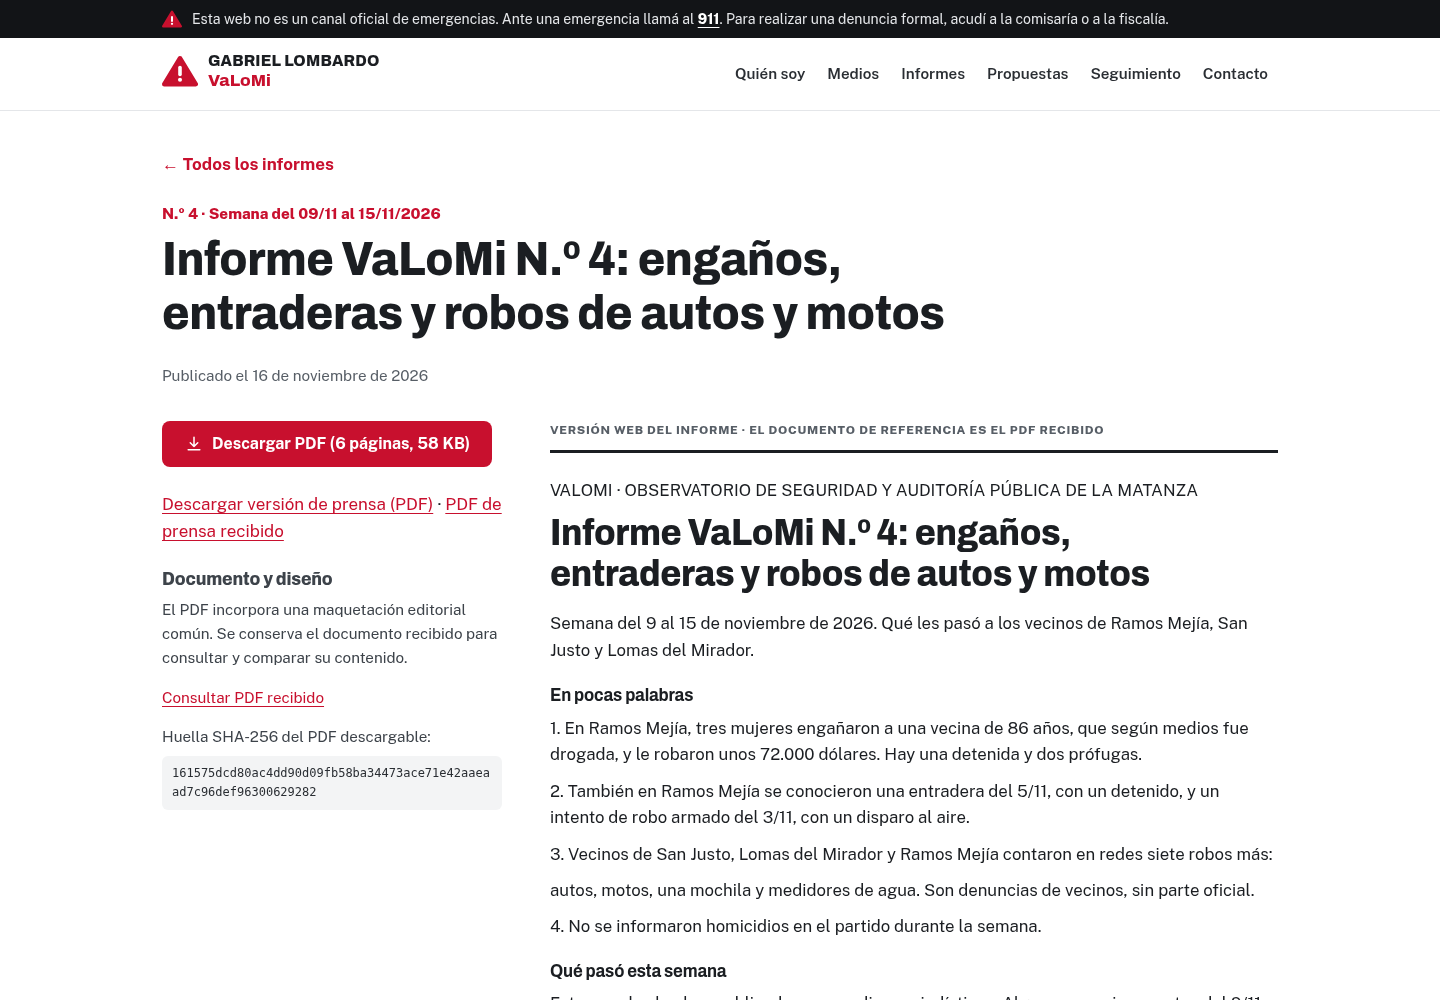
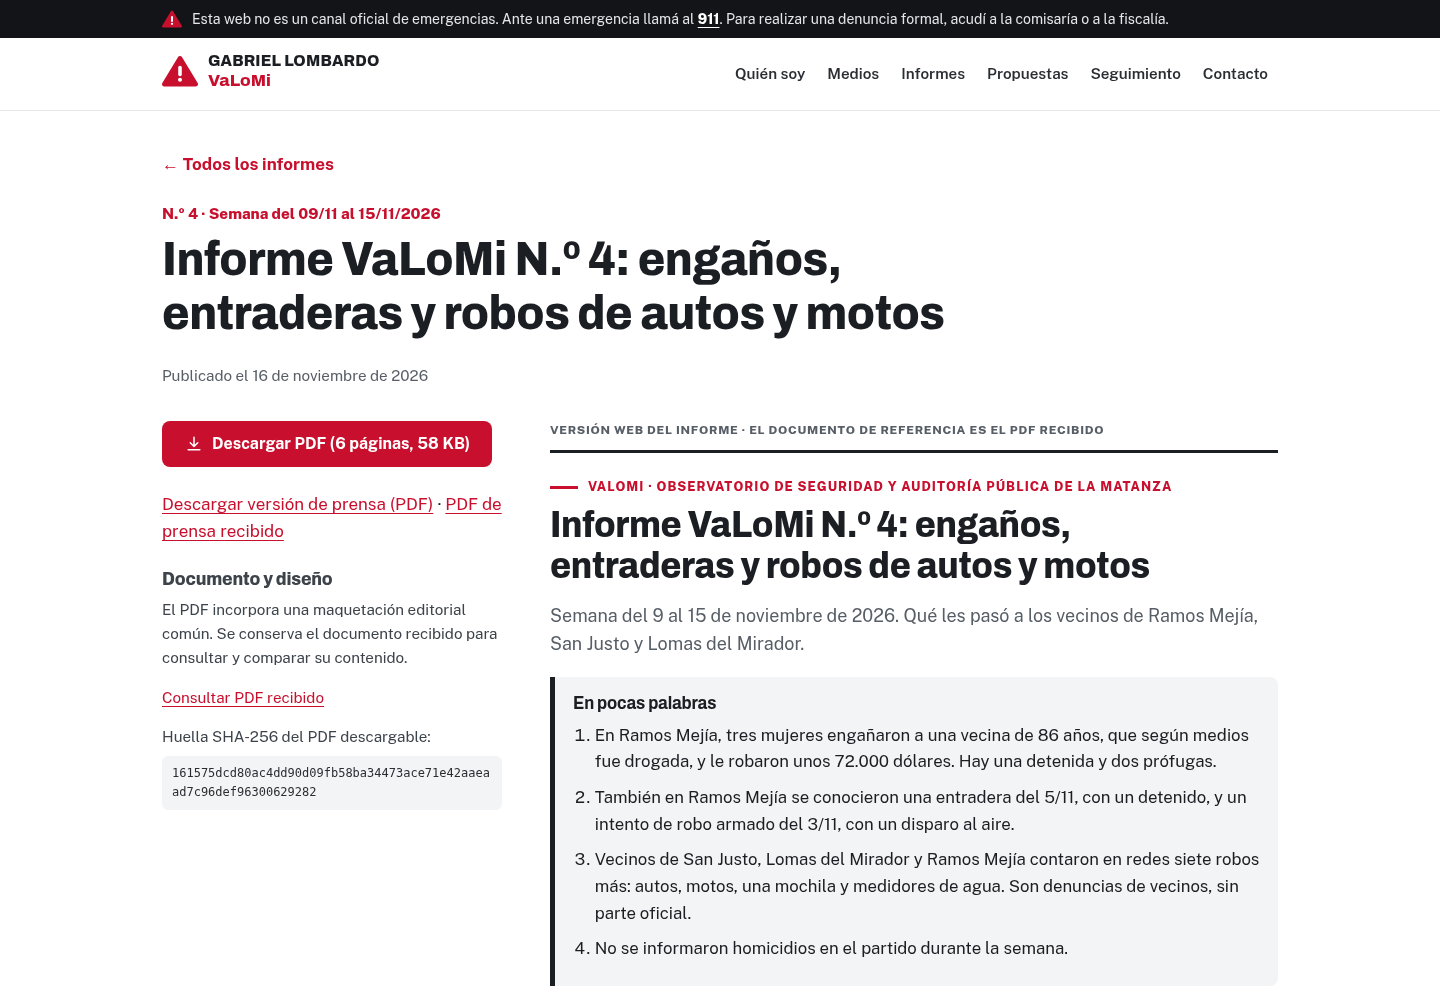
Adapta el informe 4 al estilo web existente sin cambiar los PDF

Changed region(s): [[0.375, 0.682, 0.875, 0.992], [0.375, 0.465, 0.875, 0.651], [0.8438, 0.992, 0.875, 1.0]]

diff --git a/content/informes-html/informe-valomi-n-4-semana-del-09-11-al-15-11-2026/versionWeb.html b/content/informes-html/informe-valomi-n-4-semana-del-09-11-al-15-11-2026/versionWeb.html
@@ -1,46 +1,234 @@
-<article class="vv"><p>VALOMI · OBSERVATORIO DE SEGURIDAD Y AUDITORÍA PÚBLICA DE LA MATANZA</p>
+<article class="vv"><p class="vv-kicker">VALOMI · OBSERVATORIO DE SEGURIDAD Y AUDITORÍA PÚBLICA DE LA MATANZA</p>
 <h1>Informe VaLoMi N.º 4: engaños, entraderas y robos de autos y motos</h1>
-<p>Semana del 9 al 15 de noviembre de 2026. Qué les pasó a los vecinos de Ramos Mejía, San Justo y Lomas del Mirador.</p>
+<p class="vv-lead">Semana del 9 al 15 de noviembre de 2026. Qué les pasó a los vecinos de Ramos Mejía, San Justo y Lomas del Mirador.</p>
+<div class="vv-box">
 <h3>En pocas palabras</h3>
-<p>1. En Ramos Mejía, tres mujeres engañaron a una vecina de 86 años, que según medios fue drogada, y le robaron unos 72.000 dólares. Hay una detenida y dos prófugas.</p>
-<p>2. También en Ramos Mejía se conocieron una entradera del 5/11, con un detenido, y un intento de robo armado del 3/11, con un disparo al aire.</p>
-<p>3. Vecinos de San Justo, Lomas del Mirador y Ramos Mejía contaron en redes siete robos más:</p>
-<p>autos, motos, una mochila y medidores de agua. Son denuncias de vecinos, sin parte oficial.</p>
-<p>4. No se informaron homicidios en el partido durante la semana.</p>
-<h3>Qué pasó esta semana</h3>
-<p>Estos son los hechos publicados por medios periodísticos. Algunos ocurrieron antes del 9/11 y se conocieron esta semana.</p>
-<p>1. Ramos Mejía: engañaron a una jubilada y le robaron unos 72.000 dólares</p>
+<ol class="vv-ideas">
+<li>En Ramos Mejía, tres mujeres engañaron a una vecina de 86 años, que según medios fue drogada, y le robaron unos 72.000 dólares. Hay una detenida y dos prófugas.</li>
+<li>También en Ramos Mejía se conocieron una entradera del 5/11, con un detenido, y un intento de robo armado del 3/11, con un disparo al aire.</li>
+<li>Vecinos de San Justo, Lomas del Mirador y Ramos Mejía contaron en redes siete robos más: autos, motos, una mochila y medidores de agua. Son denuncias de vecinos, sin parte oficial.</li>
+<li>No se informaron homicidios en el partido durante la semana.</li>
+</ol>
+</div>
+<h2>Qué pasó esta semana</h2>
+<p class="vv-note">Estos son los hechos publicados por medios periodísticos. Algunos ocurrieron antes del 9/11 y se conocieron esta semana.</p>
+<h3>1. Ramos Mejía: engañaron a una jubilada y le robaron unos 72.000 dólares</h3>
 <p>Tres mujeres abordaron a una vecina de 86 años sobre la avenida Rivadavia, entre Pueyrredón y Mariano Moreno, con el «cuento de la quiniela». Le dieron un papel con una sustancia que la mareó, la acompañaron a su departamento de la calle San Martín y le robaron el dinero y objetos de valor.</p>
 <p>Según Primer Plano, la mujer sufrió un ACV y su estado es reservado. La investigación está a cargo de la UFIJ N.º 11 de La Matanza. La Justicia cree que hay más víctimas y habilitó el correo ufij11.lm@mpba.gov.ar para recibir denuncias.</p>
 <p>Cuándo pasó: los medios no precisan la fecha. Publicado: Primer Plano, 12/11; El1, 13/11; Noticias con Enfoque, 14/11.</p>
-<p>2. Ramos Mejía: entradera en la calle Magaldi</p>
+<h3>2. Ramos Mejía: entradera en la calle Magaldi</h3>
 <p>Varios delincuentes entraron con una llave a una casa, redujeron a una mujer que estaba con su hijo y se llevaron dinero y pertenencias. No hubo heridos. Por el análisis del vehículo usado, la Policía identificó a un sospechoso y detuvo a un hombre de 43 años en un allanamiento. El dato sale de un informe policial citado por El Nacional de Matanza.</p>
 <p>Cuándo pasó: 5/11. Publicado: El Nacional de Matanza (X), 14/11.</p>
-<p>3. Ramos Mejía: intento de robo armado frente al Club Villa Colombo</p>
+<h3>3. Ramos Mejía: intento de robo armado frente al Club Villa Colombo</h3>
 <p>Un conductor esperaba en su auto, en la calle Argentina al 200, cuando otro vehículo le cerró el paso. Bajaron al menos dos hombres armados y uno disparó al aire; el conductor aceleró y escapó. Hay video, pero no trascendió si hubo denuncia ni detenidos.</p>
 <p>Cuándo pasó: 3/11, alrededor de las 20:30. Publicado: El Policial, 11/11.</p>
-<p>4. Homicidios</p>
+<h3>4. Homicidios</h3>
 <p>No se informaron homicidios en el partido de La Matanza entre el 9 y el 15/11 en los medios y redes que revisamos.</p>
-<h3>Dónde</h3>
-<table><thead><tr><th>Barrio</th><th>Hechos publicados por medios</th><th>Denuncias de vecinos (sin parte oficial)</th></tr></thead><tbody><tr><td>Ramos Mejía</td><td>Jubilada engañada y robada; entradera en Magaldi; intento de robo armado en Argentina al 200</td><td>Robo de medidores y ruedas (Almirante al 1900); robo de auto en el límite con Lomas del Mirador</td></tr><tr><td>San Justo</td><td>—</td><td>Robo de auto (Malabia y Entre Ríos); robo de moto (Villegas y Alcorta)</td></tr><tr><td>Lomas del Mirador</td><td>—</td><td>Robo de moto (Ruta 3 y Avellaneda); medidores (Eduardo Costa y Cabral); mochila (Pagola y Las Heras)</td></tr></tbody></table>
-<h3>Policía, Justicia y Municipio</h3>
+<h2>Dónde</h2>
+<table>
+<thead><tr>
+<th>Barrio</th>
+<th>Hechos publicados por medios</th>
+<th>Denuncias de vecinos (sin parte oficial)</th>
+</tr></thead>
+<tbody>
+<tr>
+<td>Ramos Mejía</td>
+<td>Jubilada engañada y robada; entradera en Magaldi; intento de robo armado en Argentina al 200</td>
+<td>Robo de medidores y ruedas (Almirante al 1900); robo de auto en el límite con Lomas del Mirador</td>
+</tr>
+<tr>
+<td>San Justo</td>
+<td>—</td>
+<td>Robo de auto (Malabia y Entre Ríos); robo de moto (Villegas y Alcorta)</td>
+</tr>
+<tr>
+<td>Lomas del Mirador</td>
+<td>—</td>
+<td>Robo de moto (Ruta 3 y Avellaneda); medidores (Eduardo Costa y Cabral); mochila (Pagola y Las Heras)</td>
+</tr>
+</tbody>
+</table>
+<h2>Policía, Justicia y Municipio</h2>
 <p>1. Detenciones. Por el robo a la jubilada, una sospechosa fue detenida en la Ciudad de Buenos Aires y dos siguen prófugas (Primer Plano, 12/11; El1, 13/11). Por la entradera de Magaldi, un hombre de 43 años fue detenido en un allanamiento (El Nacional de Matanza, 14/11). Una detención no es una condena.</p>
 <p>2. MTZ Denuncias. El 10/11 el Municipio informó que su canal anónimo de WhatsApp (11 3630 4527, las 24 horas) ahora también recibe denuncias por arrojo de basura en lugares no permitidos (La Matanza Informa, 10/11). No publicó cuántas denuncias recibió ni qué resultados tuvo. No reemplaza al 911.</p>
-<h3>Lo que dicen los números oficiales</h3>
+<h2>Lo que dicen los números oficiales</h2>
 <p>El 10/11, Diario NCO publicó, a partir de «material» y «fuentes vinculadas» a los operativos, que en La Matanza se secuestran unas 1.500 motos por semana y que bajaron los robos (−26,4 %) y los hurtos (−14,3 %). La nota no aclara a qué período corresponde cada cifra.</p>
 <p>Las dos bajas coinciden con el informe oficial del Sistema Nacional de Información Criminal (SNIC Buenos Aires 2025, Ministerio de Seguridad de la Nación):</p>
-<table><thead><tr><th>Delito (tasa cada 100.000 habitantes)</th><th>2024</th><th>2025</th><th>Variación</th><th>Dónde</th></tr></thead><tbody><tr><td>Robos</td><td>1.293,2</td><td>951,5</td><td>−26,4 %</td><td>pág. 52</td></tr><tr><td>Hurtos</td><td>492,2</td><td>421,9</td><td>−14,3 %</td><td>pág. 59</td></tr></tbody></table>
+<table>
+<thead><tr>
+<th>Delito (tasa cada 100.000 habitantes)</th>
+<th>2024</th>
+<th>2025</th>
+<th>Variación</th>
+<th>Dónde</th>
+</tr></thead>
+<tbody>
+<tr>
+<td>Robos</td>
+<td>1.293,2</td>
+<td>951,5</td>
+<td>−26,4 %</td>
+<td>pág. 52</td>
+</tr>
+<tr>
+<td>Hurtos</td>
+<td>492,2</td>
+<td>421,9</td>
+<td>−14,3 %</td>
+<td>pág. 59</td>
+</tr>
+</tbody>
+</table>
 <p>Comparan 2025 con 2024 para todo el partido: no son datos de 2026 ni por barrio. La cifra de 1.500 motos por semana no figura en los documentos oficiales que consultamos.</p>
-<h3>Lo que no figura en las estadísticas</h3>
+<div class="vv-divider">
 <p>Denuncias de vecinos, sin parte oficial. Son publicaciones de vecinos en redes sociales. Ni la Policía ni la Justicia las confirmaron, así que no son hechos comprobados. Las publicamos aparte y con su fuente.</p>
-<table><thead><tr><th>Zona y relato</th><th>Cuándo pasó</th><th>Publicado</th></tr></thead><tbody><tr><td>Ramos Mejía, calle «Almirante» al 1900 (según el vecino): reclama al Ministerio de Seguridad bonaerense por robos reiterados de medidores de agua y de ruedas de autos. No da fechas ni dice si hubo denuncias policiales.</td><td>No informado</td><td>10/11 (X)</td></tr><tr><td>Lomas del Mirador, Eduardo Costa y Cabral: un vecino avisa que se llevaron «más de 2» medidores de agua.</td><td>No informado</td><td>11/11</td></tr></tbody></table>
-<table><thead><tr><th>Zona y relato</th><th>Cuándo pasó</th><th>Publicado</th></tr></thead><tbody><tr><td>Lomas del Mirador, Ruta 3 y Avellaneda: un grupo vecinal publica el robo de una moto. No se informan heridos ni detenidos.</td><td>No informado</td><td>12/11</td></tr><tr><td>Ramos Mejía, límite con Lomas del Mirador (Almirante Brown entre Carlos Pellegrini y Allende): una vecina cuenta que le robaron el auto, con documentos adentro. Según ella, fueron cuatro jóvenes en dos motos.</td><td>12/11, alrededor de las 20</td><td>12/11</td></tr><tr><td>San Justo, Malabia y Entre Ríos: aviso del robo de un auto estacionado. Sin detenidos ni notas de medios.</td><td>No informado</td><td>13/11</td></tr><tr><td>Lomas del Mirador, Pagola y Las Heras: una vecina cuenta que a un conocido le robaron la mochila con su documentación.</td><td>14/11</td><td>14/11</td></tr><tr><td>San Justo, Villegas y Alcorta (cerca de la plaza San Nicolás): un vecino dice que le robaron la moto y pide datos.</td><td>Probablemente 14/11, alrededor de las 20</td><td>15/11</td></tr></tbody></table>
+</div>
+<h2 class="vv-nooficial">Lo que no figura en las estadísticas</h2>
+<div class="vv-nv">
+<table>
+<thead><tr>
+<th>Zona y relato</th>
+<th>Cuándo pasó</th>
+<th>Publicado</th>
+</tr></thead>
+<tbody>
+<tr>
+<td>Ramos Mejía, calle «Almirante» al 1900 (según el vecino): reclama al Ministerio de Seguridad bonaerense por robos reiterados de medidores de agua y de ruedas de autos. No da fechas ni dice si hubo denuncias policiales.</td>
+<td>No informado</td>
+<td>10/11 (X)</td>
+</tr>
+<tr>
+<td>Lomas del Mirador, Eduardo Costa y Cabral: un vecino avisa que se llevaron «más de 2» medidores de agua.</td>
+<td>No informado</td>
+<td>11/11</td>
+</tr>
+<tr>
+<td>Lomas del Mirador, Ruta 3 y Avellaneda: un grupo vecinal publica el robo de una moto. No se informan heridos ni detenidos.</td>
+<td>No informado</td>
+<td>12/11</td>
+</tr>
+<tr>
+<td>Ramos Mejía, límite con Lomas del Mirador (Almirante Brown entre Carlos Pellegrini y Allende): una vecina cuenta que le robaron el auto, con documentos adentro. Según ella, fueron cuatro jóvenes en dos motos.</td>
+<td>12/11, alrededor de las 20</td>
+<td>12/11</td>
+</tr>
+<tr>
+<td>San Justo, Malabia y Entre Ríos: aviso del robo de un auto estacionado. Sin detenidos ni notas de medios.</td>
+<td>No informado</td>
+<td>13/11</td>
+</tr>
+<tr>
+<td>Lomas del Mirador, Pagola y Las Heras: una vecina cuenta que a un conocido le robaron la mochila con su documentación.</td>
+<td>14/11</td>
+<td>14/11</td>
+</tr>
+<tr>
+<td>San Justo, Villegas y Alcorta (cerca de la plaza San Nicolás): un vecino dice que le robaron la moto y pide datos.</td>
+<td>Probablemente 14/11, alrededor de las 20</td>
+<td>15/11</td>
+</tr>
+</tbody>
+</table>
 <p>En las últimas semanas se repiten las denuncias de vecinos por robo de medidores de agua. Hasta el 15/11 no encontramos notas de medios ni comunicados de AySA sobre el tema.</p>
-<h3>De dónde salen los datos</h3>
+</div>
+<h2>De dónde salen los datos</h2>
 <p>Medios y fuentes oficiales</p>
-<table><thead><tr><th>Fuente</th><th>Hecho o medida</th><th>Publicación</th></tr></thead><tbody><tr><td><a href="https://primerplanoonline.com.ar/el-cuento-de-la-quiniela-y-el-robo-de-72-000-dolares-a-jubilada-una-detenida-y-dos-profugas-en-ramos-mejia/">Primer Plano: robo a una jubilada (cuento de la quiniela)</a></td><td>No precisada</td><td>12/11/2026</td></tr><tr><td><a href="https://el1.com.ar/policiales/ramos-mejia-detuvieron-a-una-mujer-y-buscan-a-otras-dos-sospechosas-acusadas-de-enganar-drogar-y-robar-a-una-adulta-mayor/">El1: una detenida y dos prófugas en Ramos Mejía</a></td><td>No precisada</td><td>13/11/2026</td></tr><tr><td><a href="https://noticiasconenfoque.com.ar/nota/45057/enganaron-drogaron-y-robaron-a-una-jubilada-de-86-anos-en-ramos-mejia-detuvieron-a-una-sospechosa">Noticias con Enfoque: jubilada de 86 años</a></td><td>No precisada</td><td>14/11/2026</td></tr><tr><td><a href="https://x.com/NacionalMatanza/status/2121458414844874937">El Nacional de Matanza (X): entradera en la calle Magaldi</a></td><td>05/11/2026</td><td>14/11/2026</td></tr><tr><td><a href="https://elpolicial.com.ar/2026/11/11/video-ramos-mejia-delincuentes-disparan-al-aire-en-un-intento-de-asalto-y-las-victimas-logran-escapar-a-toda-velocidad/">El Policial: intento de asalto frente al Club Villa Colombo</a></td><td>03/11/2026, 20:30 aprox.</td><td>11/11/2026</td></tr><tr><td>La Matanza Informa (Municipio): MTZ Denuncias</td><td>Medida del 10/11/2026</td><td>10/11/2026</td></tr><tr><td><a href="https://diario-nco.net/2026/11/10/la-matanza-operativos-2/">Diario NCO: operativos y cifras</a></td><td>No precisada</td><td>10/11/2026</td></tr><tr><td><a href="https://cloud-snic.minseg.gob.ar/Informes/SNIC_PROVINCIALES/2025/Informe_SNIC_Buenos_Aires_2025.pdf">Informe SNIC Buenos Aires 2025 (Ministerio de Seguridad de la</a> Nación), págs. 52 y 59</td><td>Año 2025</td><td>Informe publicado en 2026</td></tr></tbody></table>
+<table>
+<thead><tr>
+<th>Fuente</th>
+<th>Hecho o medida</th>
+<th>Publicación</th>
+</tr></thead>
+<tbody>
+<tr>
+<td><a href="https://primerplanoonline.com.ar/el-cuento-de-la-quiniela-y-el-robo-de-72-000-dolares-a-jubilada-una-detenida-y-dos-profugas-en-ramos-mejia/">Primer Plano: robo a una jubilada (cuento de la quiniela)</a></td>
+<td>No precisada</td>
+<td>12/11/2026</td>
+</tr>
+<tr>
+<td><a href="https://el1.com.ar/policiales/ramos-mejia-detuvieron-a-una-mujer-y-buscan-a-otras-dos-sospechosas-acusadas-de-enganar-drogar-y-robar-a-una-adulta-mayor/">El1: una detenida y dos prófugas en Ramos Mejía</a></td>
+<td>No precisada</td>
+<td>13/11/2026</td>
+</tr>
+<tr>
+<td><a href="https://noticiasconenfoque.com.ar/nota/45057/enganaron-drogaron-y-robaron-a-una-jubilada-de-86-anos-en-ramos-mejia-detuvieron-a-una-sospechosa">Noticias con Enfoque: jubilada de 86 años</a></td>
+<td>No precisada</td>
+<td>14/11/2026</td>
+</tr>
+<tr>
+<td><a href="https://x.com/NacionalMatanza/status/2121458414844874937">El Nacional de Matanza (X): entradera en la calle Magaldi</a></td>
+<td>05/11/2026</td>
+<td>14/11/2026</td>
+</tr>
+<tr>
+<td><a href="https://elpolicial.com.ar/2026/11/11/video-ramos-mejia-delincuentes-disparan-al-aire-en-un-intento-de-asalto-y-las-victimas-logran-escapar-a-toda-velocidad/">El Policial: intento de asalto frente al Club Villa Colombo</a></td>
+<td>03/11/2026, 20:30 aprox.</td>
+<td>11/11/2026</td>
+</tr>
+<tr>
+<td>La Matanza Informa (Municipio): MTZ Denuncias</td>
+<td>Medida del 10/11/2026</td>
+<td>10/11/2026</td>
+</tr>
+<tr>
+<td><a href="https://diario-nco.net/2026/11/10/la-matanza-operativos-2/">Diario NCO: operativos y cifras</a></td>
+<td>No precisada</td>
+<td>10/11/2026</td>
+</tr>
+<tr>
+<td>
+<a href="https://cloud-snic.minseg.gob.ar/Informes/SNIC_PROVINCIALES/2025/Informe_SNIC_Buenos_Aires_2025.pdf">Informe SNIC Buenos Aires 2025 (Ministerio de Seguridad de la</a> Nación), págs. 52 y 59</td>
+<td>Año 2025</td>
+<td>Informe publicado en 2026</td>
+</tr>
+</tbody>
+</table>
 <p>Denuncias de vecinos (no oficiales)</p>
-<table><thead><tr><th>Fuente</th><th>Cuándo pasó</th><th>Publicación</th></tr></thead><tbody><tr><td>Publicación de un vecino en X: medidores y ruedas en Ramos Mejía</td><td>No informado</td><td>10/11/2026</td></tr><tr><td>Grupo vecinal de Facebook: medidores en Eduardo Costa y Cabral</td><td>No informado</td><td>11/11/2026</td></tr><tr><td>Grupo vecinal de Facebook: moto en Ruta 3 y Avellaneda</td><td>No informado</td><td>12/11/2026</td></tr><tr><td>Grupo vecinal de Facebook: auto en Almirante Brown</td><td>12/11/2026, alrededor de las 20</td><td>12/11/2026</td></tr><tr><td>Grupo vecinal de Facebook: auto en Malabia y Entre Ríos</td><td>No informado</td><td>13/11/2026</td></tr><tr><td>Grupo vecinal de Facebook: mochila en Pagola y Las Heras</td><td>14/11/2026</td><td>14/11/2026</td></tr><tr><td>Grupo vecinal de Facebook: moto en Villegas y Alcorta</td><td>Probablemente 14/11/2026, alrededor de las 20</td><td>15/11/2026</td></tr></tbody></table>
+<table>
+<thead><tr>
+<th>Fuente</th>
+<th>Cuándo pasó</th>
+<th>Publicación</th>
+</tr></thead>
+<tbody>
+<tr>
+<td>Publicación de un vecino en X: medidores y ruedas en Ramos Mejía</td>
+<td>No informado</td>
+<td>10/11/2026</td>
+</tr>
+<tr>
+<td>Grupo vecinal de Facebook: medidores en Eduardo Costa y Cabral</td>
+<td>No informado</td>
+<td>11/11/2026</td>
+</tr>
+<tr>
+<td>Grupo vecinal de Facebook: moto en Ruta 3 y Avellaneda</td>
+<td>No informado</td>
+<td>12/11/2026</td>
+</tr>
+<tr>
+<td>Grupo vecinal de Facebook: auto en Almirante Brown</td>
+<td>12/11/2026, alrededor de las 20</td>
+<td>12/11/2026</td>
+</tr>
+<tr>
+<td>Grupo vecinal de Facebook: auto en Malabia y Entre Ríos</td>
+<td>No informado</td>
+<td>13/11/2026</td>
+</tr>
+<tr>
+<td>Grupo vecinal de Facebook: mochila en Pagola y Las Heras</td>
+<td>14/11/2026</td>
+<td>14/11/2026</td>
+</tr>
+<tr>
+<td>Grupo vecinal de Facebook: moto en Villegas y Alcorta</td>
+<td>Probablemente 14/11/2026, alrededor de las 20</td>
+<td>15/11/2026</td>
+</tr>
+</tbody>
+</table>
 <p>Enlaces</p>
 <p>Primer Plano: robo a una jubilada (cuento de la quiniela) https://primerplanoonline.com.ar/el-cuento-de-la-quiniela-y-el-robo-de-72-000-dolares-a-jubilada-una-detenida-y-dos-profugas- en-ramos-mejia/</p>
 <p>El1: una detenida y dos prófugas en Ramos Mejía https://el1.com.ar/policiales/ramos-mejia-detuvieron-a-una-mujer-y-buscan-a-otras-dos-sospechosas-acusadas-de-enganar- drogar-y-robar-a-una-adulta-mayor/</p>
@@ -51,4 +239,7 @@
 <p>La Matanza Informa (Municipio): MTZ Denuncias https://www.lamatanzainforma.com.ar/2026/11/10/mtz-denuncias-ampliamos-servicios-para-que-la-comunidad-pueda- <a href="https://www.lamatanzainforma.com.ar/2026/11/10/mtz-denuncias-ampliamos-servicios-para-que-la-comunidad-pueda-colaborar-en-tener-una-ciudad-mas-segura-y-limpia/">colaborar-en-tener-una-ciudad-mas-segura-y-limpia/</a></p>
 <p>Diario NCO: operativos y cifras https://diario-nco.net/2026/11/10/la-matanza-operativos-2/</p>
 <p>Informe SNIC Buenos Aires 2025 (Ministerio de Seguridad de la Nación), págs. 52 y 59 https://cloud-snic.minseg.gob.ar/Informes/SNIC_PROVINCIALES/2025/Informe_SNIC_Buenos_Aires_2025.pdf</p>
-<p>Informe VaLoMi N.º 4 · Observatorio de Seguridad y Auditoría Pública de La Matanza · 15 de noviembre de 2026 Las denuncias de vecinos no son datos oficiales. Si un organismo publica o corrige datos, actualizaremos este informe. Este informe no es un canal de emergencias: ante una emergencia, llamá al 911. Para hacer una denuncia formal, acudí a la comisaría o a la fiscalía.</p><h2>Enlaces del documento recibido</h2><p><a href="https://x.com/ElPolicialOK/status/2120668636021190753">https://x.com/ElPolicialOK/status/2120668636021190753</a></p></article>
+<p>Informe VaLoMi N.º 4 · Observatorio de Seguridad y Auditoría Pública de La Matanza · 15 de noviembre de 2026 Las denuncias de vecinos no son datos oficiales. Si un organismo publica o corrige datos, actualizaremos este informe. Este informe no es un canal de emergencias: ante una emergencia, llamá al 911. Para hacer una denuncia formal, acudí a la comisaría o a la fiscalía.</p>
+<h2>Enlaces del documento recibido</h2>
+<p><a href="https://x.com/ElPolicialOK/status/2120668636021190753">https://x.com/ElPolicialOK/status/2120668636021190753</a></p></article>
+
